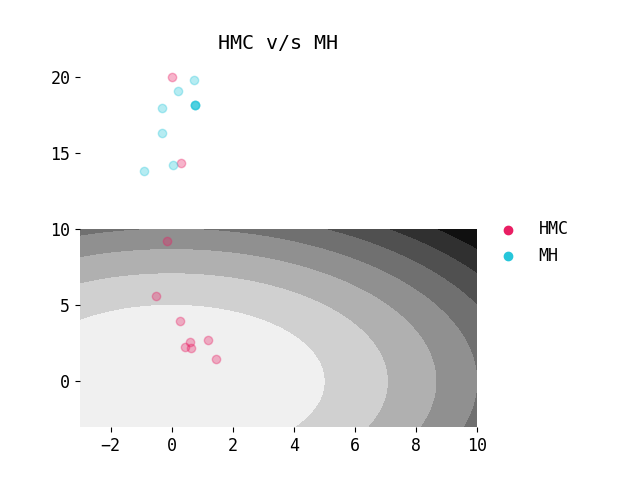
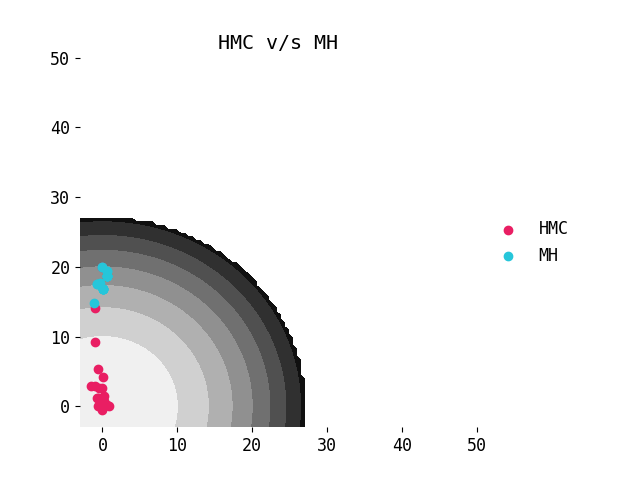
add some leftover stuff from gaussians

diff --git a/diffgeo/main.tex b/diffgeo/main.tex
@@ -92,7 +92,247 @@
 \maketitle
 \tableofcontents
 
-\chapter{SR: Introduction: Lecture 1}
+\chapter{Special relativity}
+
+\section{Galileo's principle of relativity}
+\section{Einstein's principle of relativity}
+All laws of physics are the same in all inertial frames.
+Negative definition: No test allows us to differentiate
+\section{Emptiness}
+Is relativity just a postulate? What lies behind it? It depends on
+``space is empty''. All the fields that we see are all dancers on the
+stage which is empty space. Empty space cannot distinguish between anything
+(isometry and isotropy of space). Space cannot make a choice between observers,
+etc.
+
+But is space really empty? No. At very big distances, we get galaxies etc. But
+all of this dust is within space, not a part of the space, so it is okay. We need
+to sample massive areas over massive timescales.
+
+But once we get to QM, we know that we have virtual partices. We need to sample
+very small locations for very small times. If we restrict ourselves, to not
+allowing such observations, then we escape this.
+
+But we can always choose slices of spacetime which are empty.
+
+We have two overlapping reference frames. They are observing the same experiment,
+which is separated by two events. In one frame, we get $\delta x, \delta t$. In
+the other frame, we will get $\delta x', \delta t'$. So they will not
+agree on velocities and forces. 
+
+Assume we have a current carrying conductor lying in a 2D plane along the y axis.
+Current is travelling from -infinity to plus infinity. The magnetic field on the
+left half is outward [Biot-savart].
+
+There is a proton in the left half plane moving parallel
+to the y axis northward. It'll be attracted towards the wire.
+The force is going to be $F = qv \times B$ [Lorentz force laws].
+
+So if we are at rest, I'll see a proton that is changing the direction of its
+velocity, but not the direction because the force is perpendicular to the
+velocity.
+
+Now if we are on the proton, We are originally stationary, so we then starting
+travelling towards the proton. This means that we have an electric field.
+
+Two observers will not agree on electric and magnetic field strengths either!
+
+
+\section{What do two different inertial frames agree upon?}
+One is the laws of physics, and fundamental constant of nature [speed of light].
+They will also see the same space-time separation $t^2 - x^2$.
+
+Is the speed of light a fundamental constant of nature? Or is it just a
+conversion factor? in cartography, we have metres and miles. In spacetime,
+we have seconds and metres.
+
+The \emph{value of the speed of light} is not a fact of nature, since the value
+is measured in some units. 
+
+Better measurements of the speed of light just give us better ratios between
+units of space v/s units of time.
+
+\section{Relativity of simultaneity}
+
+Can we say that two events happen at the same time? No, two different frames
+will not agree on the simultaneity of two different events.
+
+
+If two different observers cannot even agree on the $\delta x$, how will they
+agree on $\delta t = 0$? Insert train paradox here.
+
+
+Since two flashes struck on two sides and we are at the midpoint, the flashes
+of light will reach us simultaneously. We can measure the length.
+
+
+The observer in the train will argue that the lightning was not simultaneous,
+since they are moving towards the light, the light ray in the front will reach
+earlier than the light ray in the back.
+
+If we disagree about simultaneity, we disagree about length.
+The rest length [that is, the length of the rod when it is in rest with respect
+is called proper length]. All observers will agree on the proper length.
+
+
+We can look at lack of simultaneity as "time dilation", because for one,
+we had $\delta t = 0$ [on the ground], while on the other, we had $\delta t > 0$,
+where the $\delta t$ is the time elapsed between the two events.
+
+We have two parllel mirrors and a pulse of light keeps going back and forth.
+A unit of time is the time it takes to go from one mirror to the next. One period
+has two time units.
+
+
+When we talk about relativity, we are only talking about inertial. Velocities
+are relative, acceleration is not. We can figure out that there is acceleration
+from within a frame by doing something like jumping. So all motion is relative,
+as long as we have inertial frames.
+
+
+In the case of the rocket ship, We have one frame that sees acceleration while
+the other does not. So that rocket ship dude knows that he has aged. The
+solution to the twin paradox ought to be in GR, because one of the frames sees
+acceleration while the other does not.
+
+What happens if we use pendulums inside SR? Will we have time go faster
+or whatever?
+
+Notice that in any thought experiment of SR, we always say "we have stuff moving",
+we never say that "we start moving". Because otherwise, we would have forces
+(acceleration) which is not explained by SR.
+
+
+Will a mechanical clock observe the same time as a light clock? Yes. Why? Let's
+assume we have two light clocks, one in the rest frame and one in the moving
+frame. Now the mechanical clock in the rest frame is setup to match the light
+frame [by construction]. Now in the moving car, we better have the mechanical
+clock match the light clock. Otherwise, we can see the difference between
+two clocks.
+
+Why doesn't thickness change? We are moving along the length of the rod, and
+the thickness is perpendicular to the direction of motion. Perpendicular
+implies a "single direction". "Transverse" implies an entire collection of
+directions.
+
+Let us say that with respect to me, I observed a thickness contraction.
+Then in my frame, the axle of the train should be too small to fit on the track.
+On the other hand, if I sit in the train, I'll see that the tracks are moving.
+So I should see that the separation between the tracks should be too small
+for the axle. This is a paradox, so we are forced to say that there is no change
+in the transverse dimension.
+
+Can we argue the same thing using light clocks?
+
+There is an argument using two cylinders. Imagine two hollow cynlinders which
+we cut into parts. Call the, $l$ and $r$. Since they were part of the same
+pipe, they ought to collide on edge. If there was thickness contraction, the
+observer assigned to the $l$ pipe will say that the observer of the $r$ pipe
+will argue that the radius of the $r$ pipe is smaller than the $l$ pipe,
+and vice versa.
+
+Is there an axis of shrinkage? No, it ought to occur equally for all axes.
+
+If we have a set of events that occur at the ring of the $l$ frame. Then they
+will be simultaneous in the $r$ frame. Why? because assume not. Then which
+even will occur first? Whichever you pick, you'll break isotropy of space.
+The $r$ observer can detect the absolute orientation. Hence transverse
+dimensions don't change, and simultaneity is invariant in the transverse
+dimension. Shenanigans only happens along the direction of motion. Perpendicular
+to it, two different overlapping observers will agree.
+
+
+Proof of invariance of the interval.
+
+Can we derive equations for pendulum? From 7th to 12th question are problems.
+Read through all of them and figure out what I want to solve.
+
+\chapter{Taylor Wheeler: Lorentz Transformations}
+
+So far, our description is lacking because we can only work with events
+and intervals between events. We don't know how to work with general
+coordinate transforms. Up until now, we've only said that time dilation
+happens and length contraction happens, but we have had no formulae for this.
+Since we cannot travel faster than light, we cannot naively add velocities.
+We need the spacetime interval to be invariant. The unprimed coordinates are
+lab frame $(x, t)$ and a  primed are lab frame $(x', t')$.
+Rocket is moving with constant velocity $v$ with respect to the lab. We have
+$x' = Ax + Bt; t' = Cx + Dt$.
+
+If $x' = f(x, t)$. We set $x' = 0$. This gives us $f(x, t) = 0$. From this
+we try to calculate the velocity of the primed origin in my frame. This velocity
+must be independent of $x$ and $t$. The velocity of this point with $x' = 0$
+should have velocity $v$. This velocity should be constant across $x$ and $t$.
+
+$$
+dx' = (df/dx) dx + (df/dt) dt \\
+dx' = 0 \text{(we are choosing $x'$ as constant.)} \\
+-(df/dt)/(df/dx) = dx/dt = v \\
+$$
+
+This value ought to be independent of $x$ and $t$. Because all frames are
+initial, we're fine. We can't have a dependence on $t$ since that would be
+some kind of acceleration. We can't have dependence on $x$ as well, since
+space is isotropic.
+
+We can have:
+
+$$ (df/dt) = -v (df/dx) $$
+We want this to be a \emph{constant} however. We need both $df/dt$ and $df/dx$
+to be constant functions. How do we show that?
+
+$$x' = Ax + Bt; t' = Cx + Dt$$ We set $x' = 0$. This gives is $Ax + Bt = 0$,
+or $x = -B/At$. Hence $-B/A = v$. So $B = -Av$. $x' = A(x - vt)$.
+$x = A(x' + vt')$, by symmetry.
+
+Set $x' = ct'$, $x = ct$, because the speed of light is invariant. We assume
+that the spacetime origins coincide.
+
+
+$$
+x = A(ct + ct') \\
+c^2 t't = A^2t' t(c^2 - v^2) \\
+...
+x' = 1/\sqrt{1-v^2/c^2}
+$$
+
+$$
+x'/t' = x/t
+$$
+
+\section{invariance of light speed implies invariance of the interval}
+$x = ct$
+
+From which I can derive:
+$$c^2t^2 - x^2 = 0$$
+
+
+$x = ct$
+
+\section{Invariance of interval implies invariance of light speed}
+$$
+t*t - x*x = c = t'*t' - x'*x'
+$$
+
+\section{addition of velocities}
+
+$$
+x' = \gamma(x - vt)
+t' = \gamma (t - vx/c^2)
+$$
+
+$$
+x'= v_b' t'
+\gamma(x - vt) = v_b' \gamma(t - vx/c^2) 
+(x - vt) = v_b' (t - vx/c^2) 
+(c^2x - c^2 vt) = v_b' (c^2t - vx) 
+(c^2 + v)x = t(v + v_b') \\
+$$
+
+We want to find out $\frac{dx}{dt}$.
+
+
+\chapter{Theoretical Minimum: Introduction: Lecture 1}
 
 I am following the lecture series of the theoretical minimum by Susskind.
 

diff --git a/diffgeo/hmc-gaussian.py b/diffgeo/hmc-gaussian.py
@@ -122,7 +122,7 @@ def gaussian_mh(startq, n):
 
     return (naccept, np.asarray(qs))
 
-NITERS = int(10)
+NITERS = int(20)
 hmc_naccept, hmc_qs = gaussian_hmc(STARTQ, leapfroge, NITERS)
 
 print ("Ideal acceptance ratio: ~20%")
@@ -132,7 +132,7 @@ print("HMC acceptance ratio: %4.2f%%" % (hmc_naccept / NITERS * 100))
 plt.rcParams.update({'font.size': 12, 'font.family':'monospace'})
 fig, ax = plt.subplots()
 
-X, Y = np.meshgrid(np.linspace(-3, 10.0, 100), np.linspace(-3, 10.0, 100))
+X, Y = np.meshgrid(np.linspace(-3, 50.0, 100), np.linspace(-3, 50.0, 100))
 Z = np.empty(X.shape)
 for i in range(X.shape[0]):
     for j in range(X.shape[1]):
@@ -140,13 +140,13 @@ for i in range(X.shape[0]):
 
 plt.contourf(X, Y, Z, cmap='gray')
 
-ax.scatter(hmc_qs[:, 0], hmc_qs[:, 1], label='HMC', c='#E91E6355')
+ax.scatter(hmc_qs[:, 0], hmc_qs[:, 1], label='HMC', c='#E91E63FF')
 
 mh_naccept, mh_qs = gaussian_mh(STARTQ, NITERS)
 
 print("MH acceptance ratio: %4.2f%%" % (mh_naccept / NITERS * 100))
 
-ax.scatter(mh_qs[:, 0], mh_qs[:, 1], label='MH', c='#26C6DA55')
+ax.scatter(mh_qs[:, 0], mh_qs[:, 1], label='MH', c='#26C6DAFF')
 
 
 box = ax.get_position(); ax.set_position([box.x0, box.y0, box.width * 0.8, box.height])
